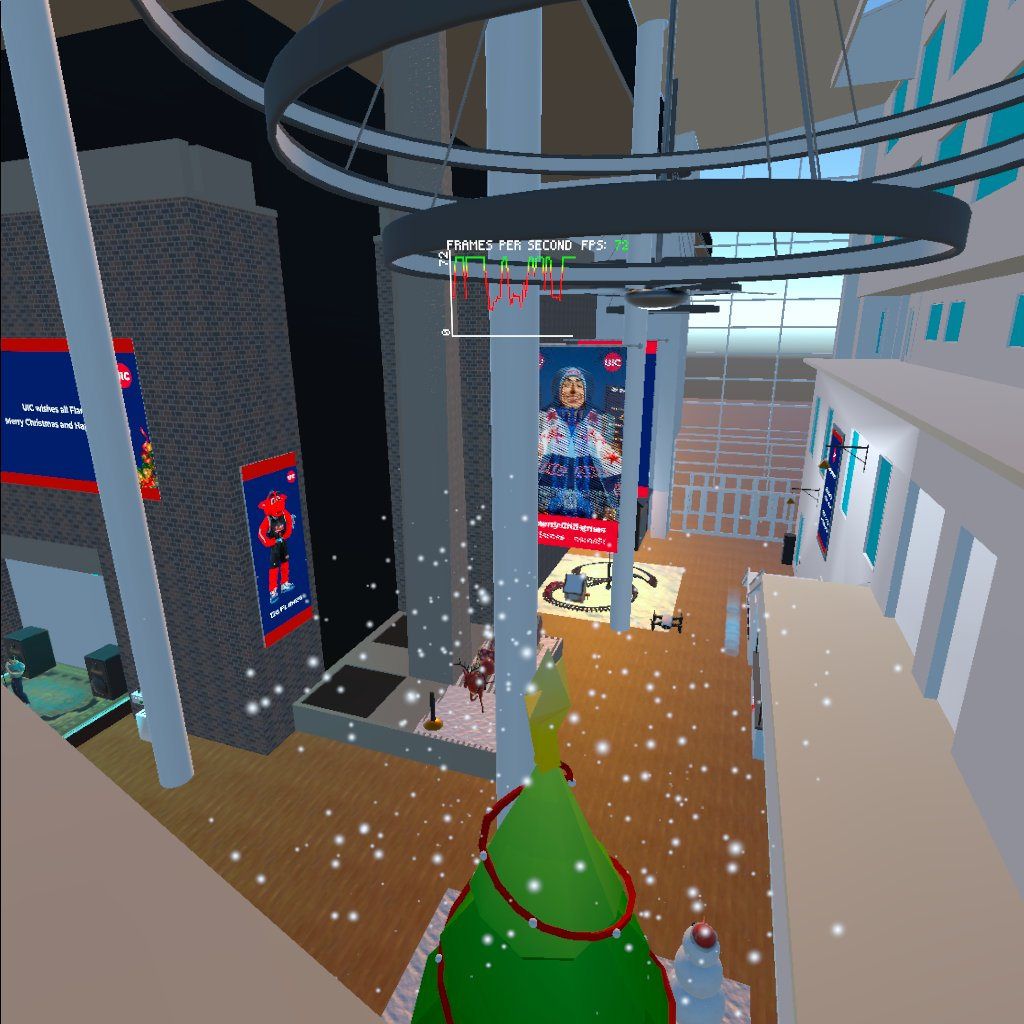
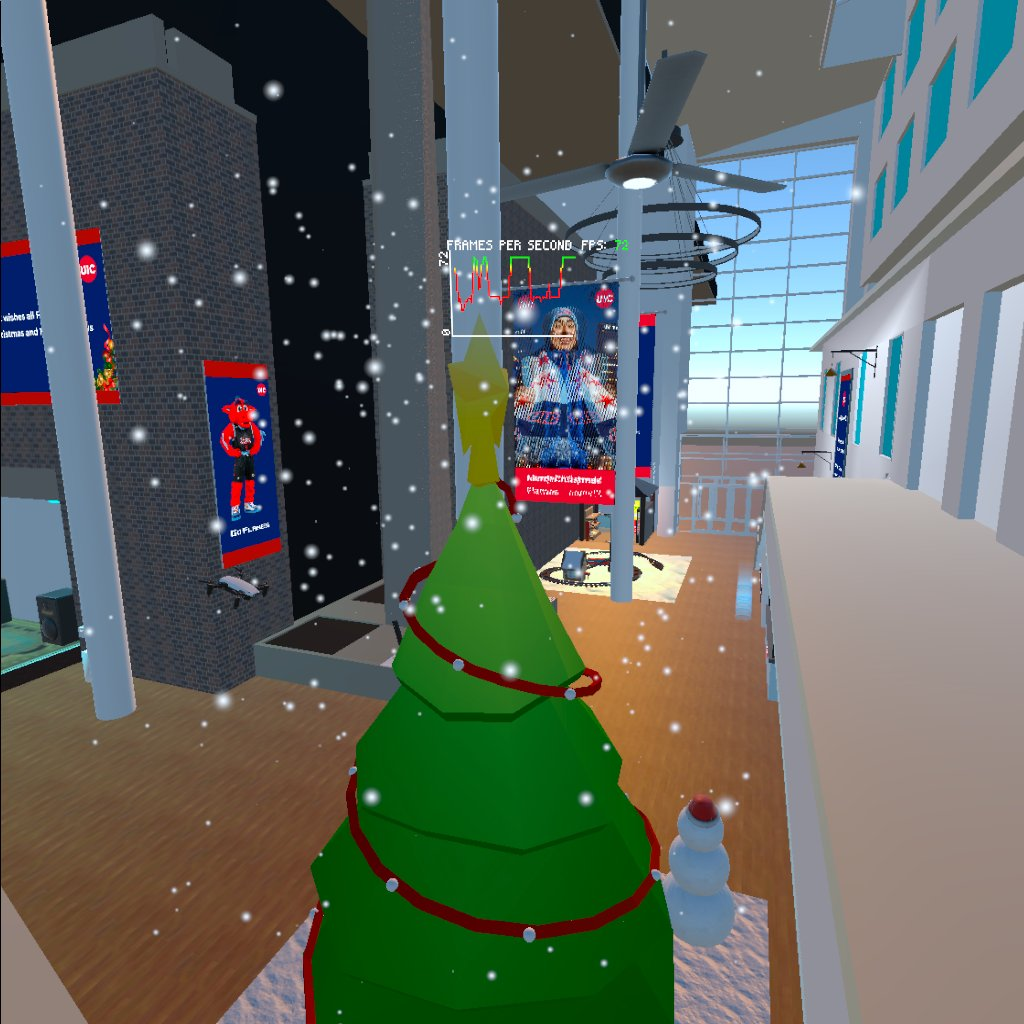
Performance Analysis updated

diff --git a/project3.html b/project3.html
@@ -212,7 +212,7 @@
                 <iframe
                   width="560"
                   height="315"
-                  src="https://www.youtube.com/embed/VjFg85Pb5ic"
+                  src="https://www.youtube.com/embed/l4AF6rb4SVQ"
                   title="YouTube video player"
                   frameborder="0"
                   allow="accelerometer; autoplay; clipboard-write; encrypted-media; gyroscope; picture-in-picture"
@@ -2220,9 +2220,8 @@
                     <div class="col-lg-6">
                       <li style="text-align: justify;">
                         <h6>Location 2</h6>
-                        The framerate from this location falls a little due to
-                        multiple complex models being in frame, although not
-                        visible.
+                        The framerate continues to be stable at 72 fps from this
+                        location as well
                       </li>
                     </div>
                     <div class="col-lg-6 px-5">
@@ -2236,8 +2235,9 @@
                     <div class="col-lg-6">
                       <li style="text-align: justify;">
                         <h6>Location 3</h6>
-                        The framerate drops a lot owing to multiple complex
-                        models being in frame.
+                        The framerate from this location falls a little due to
+                        multiple complex models being in frame, although not
+                        visible.
                       </li>
                     </div>
                     <div class="col-lg-6 px-5">
@@ -2297,24 +2297,24 @@
                   <div class="row mb-3">
                     <div class="col-lg-6">
                       <li style="text-align: justify;">
-                        Looking at the seating area gives gives a stable
-                        framerate of 65-70 fps.
+                        Looking at the Halloween area gives gives a stable
+                        framerate of 72 fps.
                       </li>
                     </div>
                     <div class="col-lg-6 px-5">
                       <img
                         class="img-fluid"
-                        src="./images/project2/performance-analysis/seating area.jpg"
+                        src="./images/project3/performance-analysis/ss-7.jpg"
                       />
                     </div>
                   </div>
                 </ul>
                 <h5>Conclusion</h5>
                 <p>
-                  The application on average runs at about 72 fps, never dipping
-                  below 36. The reason it dips to 36 is due to the presence of
-                  high polygon building models along with multiple complex
-                  models in the frame.
+                  The application on average runs stable at about 72 fps, never
+                  dipping below 69. The reason it dips to 69 is due to the
+                  presence of high polygon building models along with multiple
+                  complex models in the frame.
                 </p>
               </div>
 
